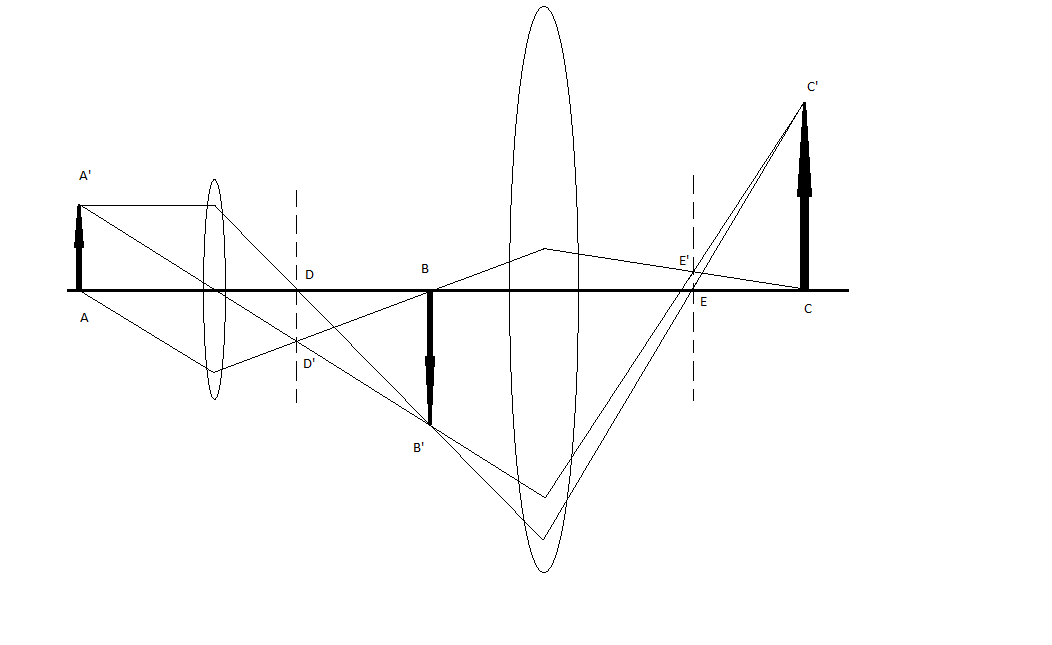
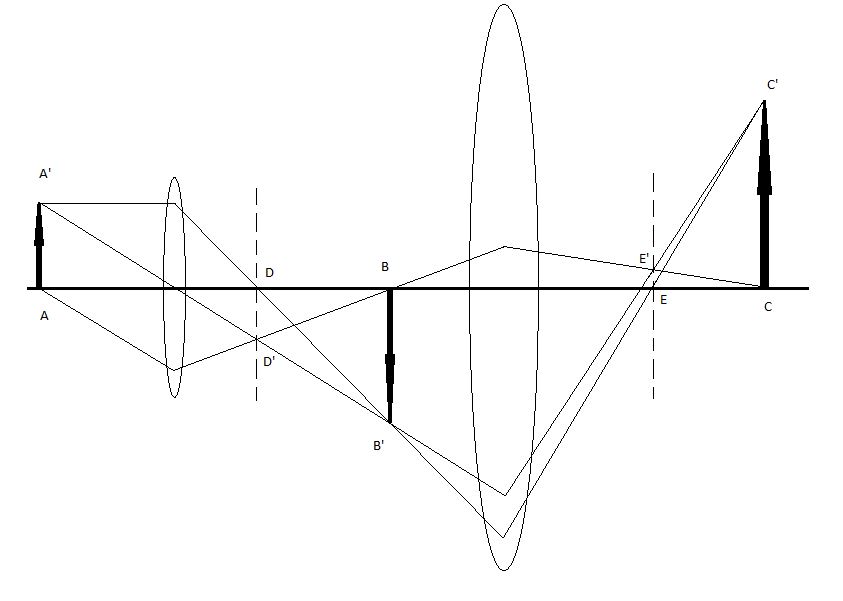
weiter geschrieben
weiter geschrieben

diff --git a/FP11.tex b/FP11.tex
@@ -23,7 +23,14 @@ Transmissionselektronenmikroskope erreichen eine Auflösung die im Sub-\(\mathrm
 \lambda = \frac{h}{\sqrt{2m_\mathrm{0}eV(\frac{1+eV}{2m_\mathrm{0}c^2})}}
 \end{align}
 Mit \(h\) dem planck'schen Wirkungsquantum, \(m_\mathrm{0}\) der Ruhemasse des Elektrons, \(c\) der Lichgeschwindigkeit und \(eV\) der Energie des Elektrons in Elektronenvolt.
-Die
+Zwei Bildgebungsarten sich möglich. Das erste ist das Beugungsbild, hier wird das reziproke Gitter des Kristalls abgebildet. Das zweite ist das Realbild (Abb. \ref{Strahlengang}).
+\begin{figure}[H]
+\center
+\includegraphics[width=\textwidth]{Strahlengang.png}
+\caption{Schematische und vereinfachte Darstellung des Strahlenganges zur Entstehung der zwei Bildarten. Realbilder bei BB' und CC'. Beugungsbilder bei DD' und EE'.}
+\label{Strahlengang}
+\end{figure}
+
 	
 \section{Versuchsaufbau und Versuchsdurchführung}
 
